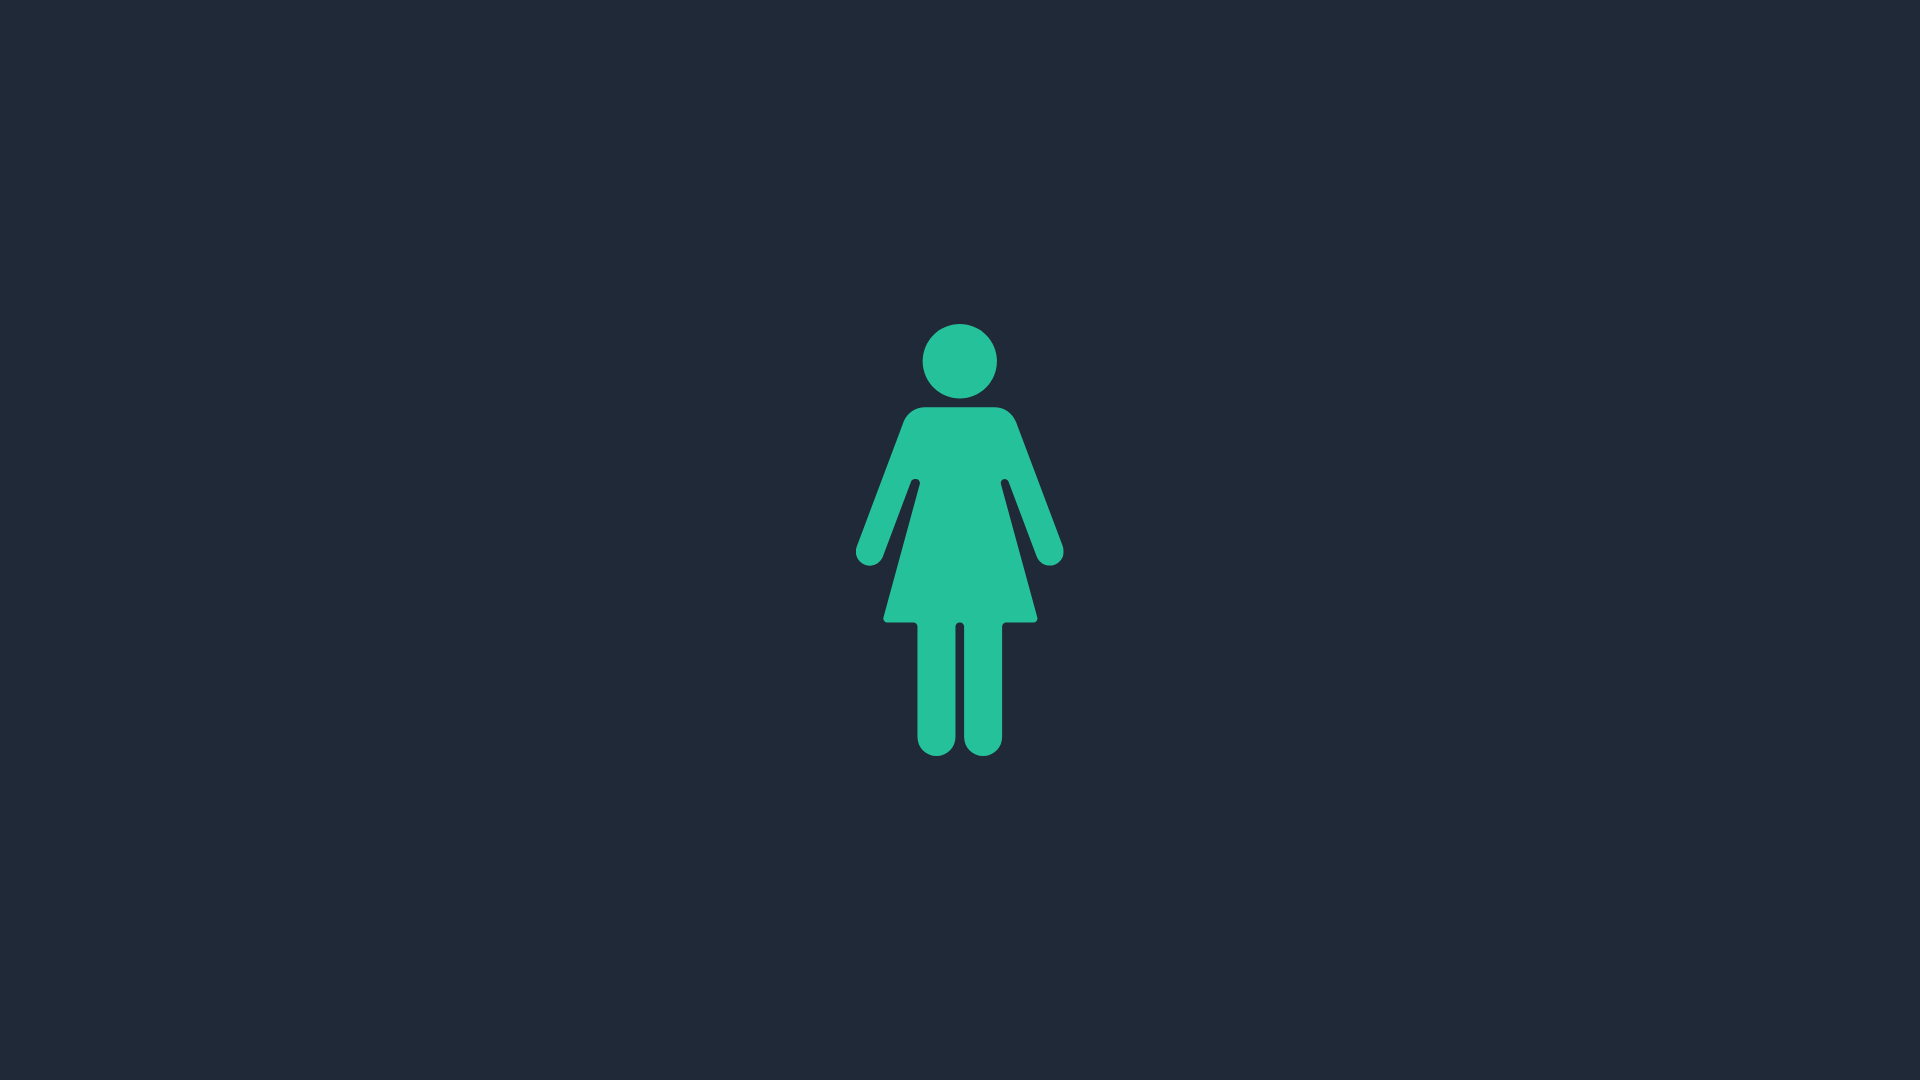
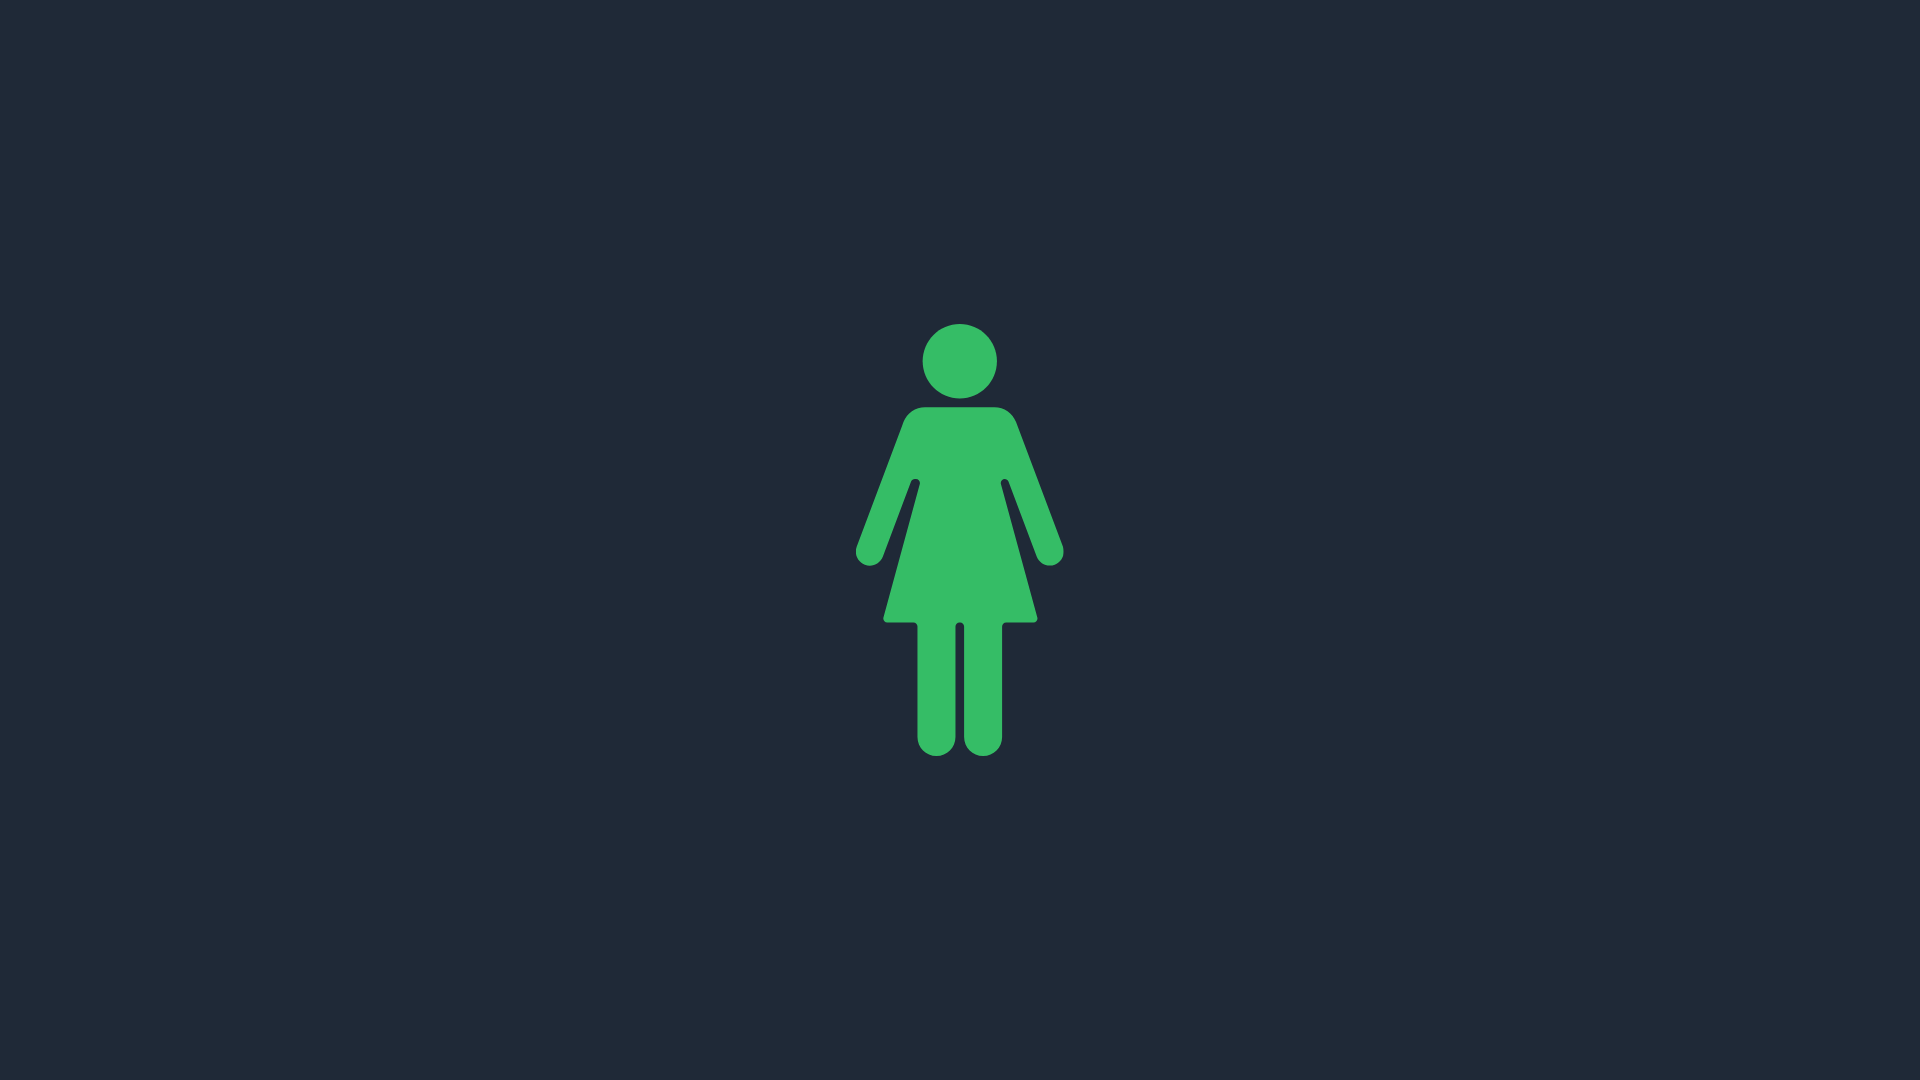
change branding

Changed region(s): [[0.4375, 0.3056, 0.5625, 0.7028]]

diff --git a/src/app/theme.ts b/src/app/theme.ts
@@ -6,14 +6,14 @@ import { createTheme } from "@mui/material/styles";
 const theme = createTheme({
   palette: {
     primary: {
-      main: "#7fd5a6", // Replace with your custom blue color
+      main: "#35bd63", // Replace with your custom blue color
     },
     secondary: {
-      main: "#7fd5a6", // Optional: define a custom secondary color
+      main: "#35bd63", // Optional: define a custom secondary color
     },
     text: {
-      primary: "#7fd5a6", // Customize the text color
-      secondary: "#7fd5a6", // Customize the secondary text color
+      primary: "#35bd63", // Customize the text color
+      secondary: "#35bd63", // Customize the secondary text color
     },
     background: {
       default: "#1f2937", // Customize the default background color
@@ -35,7 +35,7 @@ const theme = createTheme({
         root: {
           borderRadius: "12px",
           "& fieldset": {
-            borderColor: "#7fd5a6", // Default border color
+            borderColor: "#35bd63", // Default border color
           },
           "&:hover fieldset": {
             borderColor: "#ffffff", // Border color on hover
@@ -58,7 +58,7 @@ const theme = createTheme({
         label: {
           fontSize: "0.80rem", // Change this to your desired font size
           "&.Mui-disabled": {
-            color: "#7fd5a6", // Change this to your desired disabled color
+            color: "#35bd63", // Change this to your desired disabled color
           },
         },
       },
@@ -68,7 +68,7 @@ const theme = createTheme({
         root: {
           "&.Mui-checked": {
             "&.Mui-disabled": {
-              color: "#7fd5a6",
+              color: "#35bd63",
             },
           },
         },
@@ -78,7 +78,7 @@ const theme = createTheme({
       styleOverrides: {
         label: {
           fontSize: "0.80rem", // Change this to your desired font size
-          color: "#7fd5a6", // Change this to your desired text color
+          color: "#35bd63", // Change this to your desired text color
         },
       },
     },
@@ -86,9 +86,9 @@ const theme = createTheme({
       styleOverrides: {
         root: {
           backgroundColor: "#d1d5db",
-          color: "#7fd5a6",
+          color: "#35bd63",
           "&.Mui-disabled": {
-            color: "#7fd5a6", // Change this to your desired disabled text color
+            color: "#35bd63", // Change this to your desired disabled text color
           },
           "&:hover": {
             backgroundColor: "#4b5563", // Change this to your desired hover background color
@@ -110,7 +110,7 @@ const theme = createTheme({
     MuiBadge: {
       styleOverrides: {
         badge: {
-          backgroundColor: "#7fd5a6", // Change this to your desired background color
+          backgroundColor: "#35bd63", // Change this to your desired background color
           color: "white", // Text color
         },
       },
@@ -125,10 +125,10 @@ const theme = createTheme({
     MuiRating: {
       styleOverrides: {
         iconEmpty: {
-          color: "#7fd5a6", // Color for empty icons
+          color: "#35bd63", // Color for empty icons
         },
         iconFilled: {
-          color: "#7fd5a6", // Color for filled icons
+          color: "#35bd63", // Color for filled icons
         },
         iconHover: {
           color: "#d1d5db", // Color for icons on hover

diff --git a/src/app/chat/page.tsx b/src/app/chat/page.tsx
@@ -110,7 +110,7 @@ const _ = ({ params }) => {
                               {c.otherUser[0].toUpperCase()}
                             </Avatar>
                             <Paper
-                              sx={{ backgroundColor: "#7fd5a6" }}
+                              sx={{ backgroundColor: "#35bd63" }}
                               className="py-1 px-2 md:px-4 md:py-2 rounded-lg text-xs text-white font-normal bg-opacity-50"
                             >
                               You : {c.messages[c.messages.length - 1].content}

diff --git a/src/app/chat/id/page.tsx b/src/app/chat/id/page.tsx
@@ -72,7 +72,7 @@ const _ = () => {
                     Sent on {m.date} at {m.time}
                   </div>
                   <Paper
-                    sx={{ backgroundColor: m.mine ? "#7fd5a6" : "#1f2937" }}
+                    sx={{ backgroundColor: m.mine ? "#35bd63" : "#1f2937" }}
                     className={
                       m.mine
                         ? "py-1 px-2 md:px-4 md:py-2 self-end rounded-lg font-semibold text-white"
